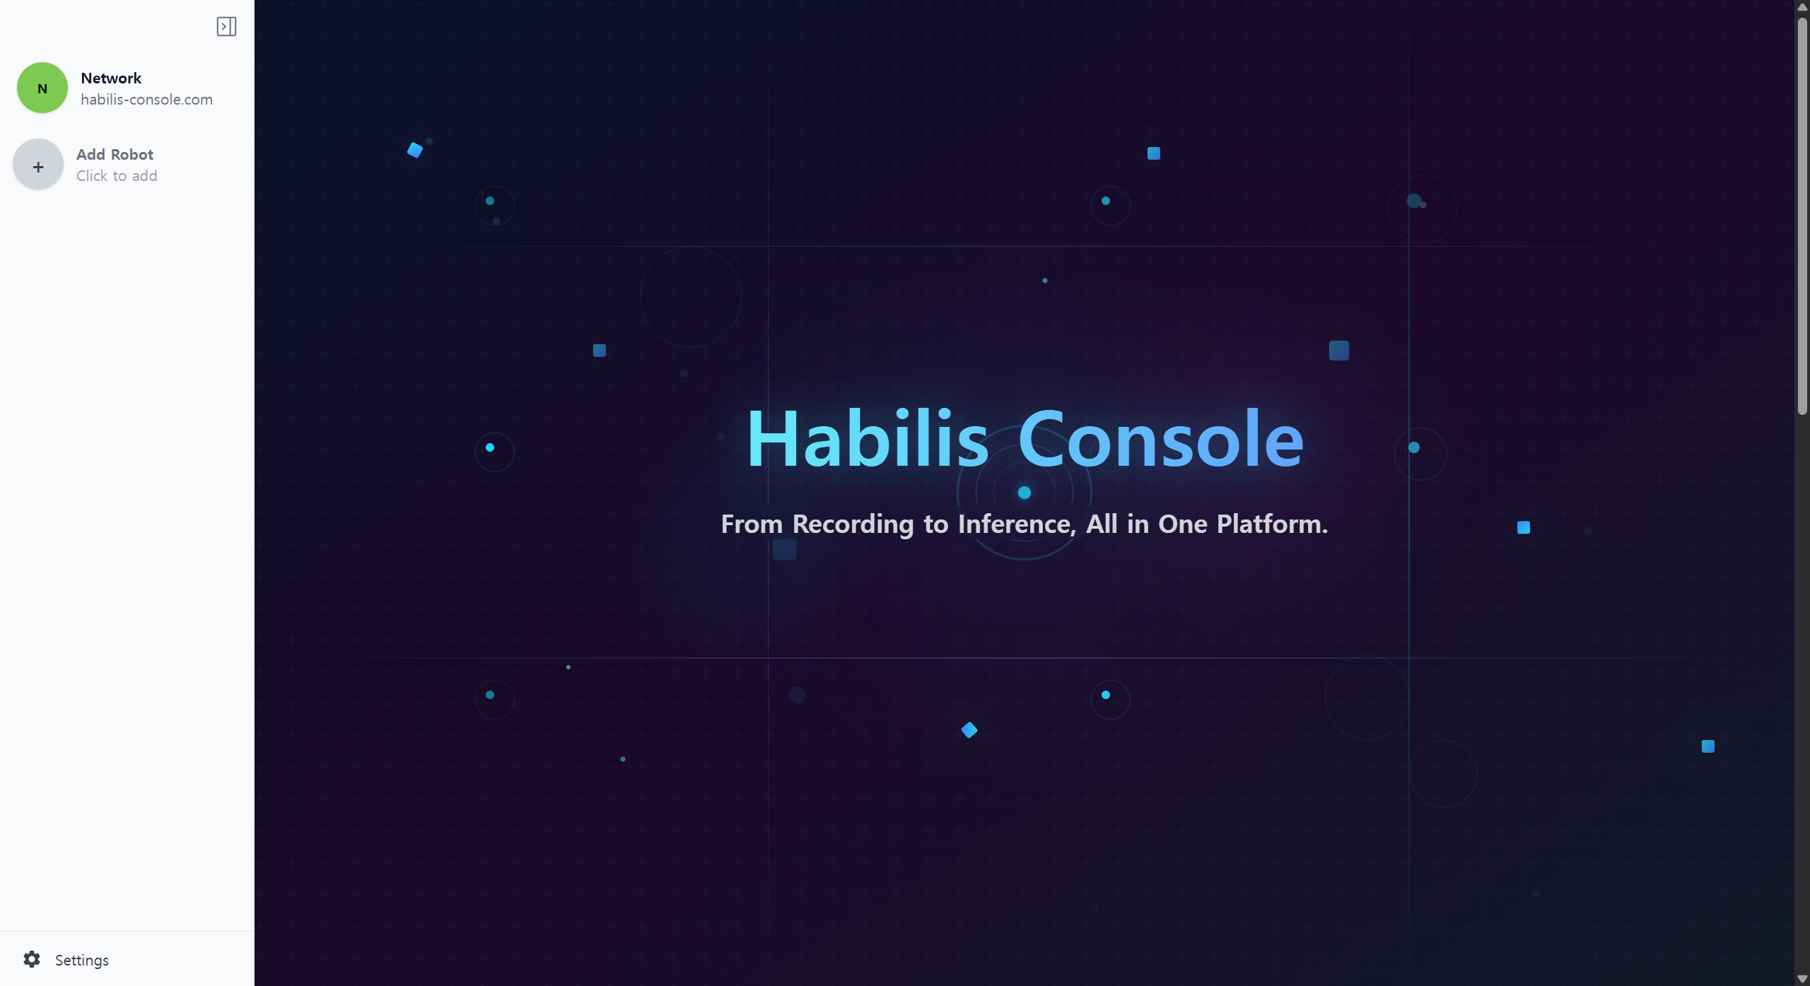
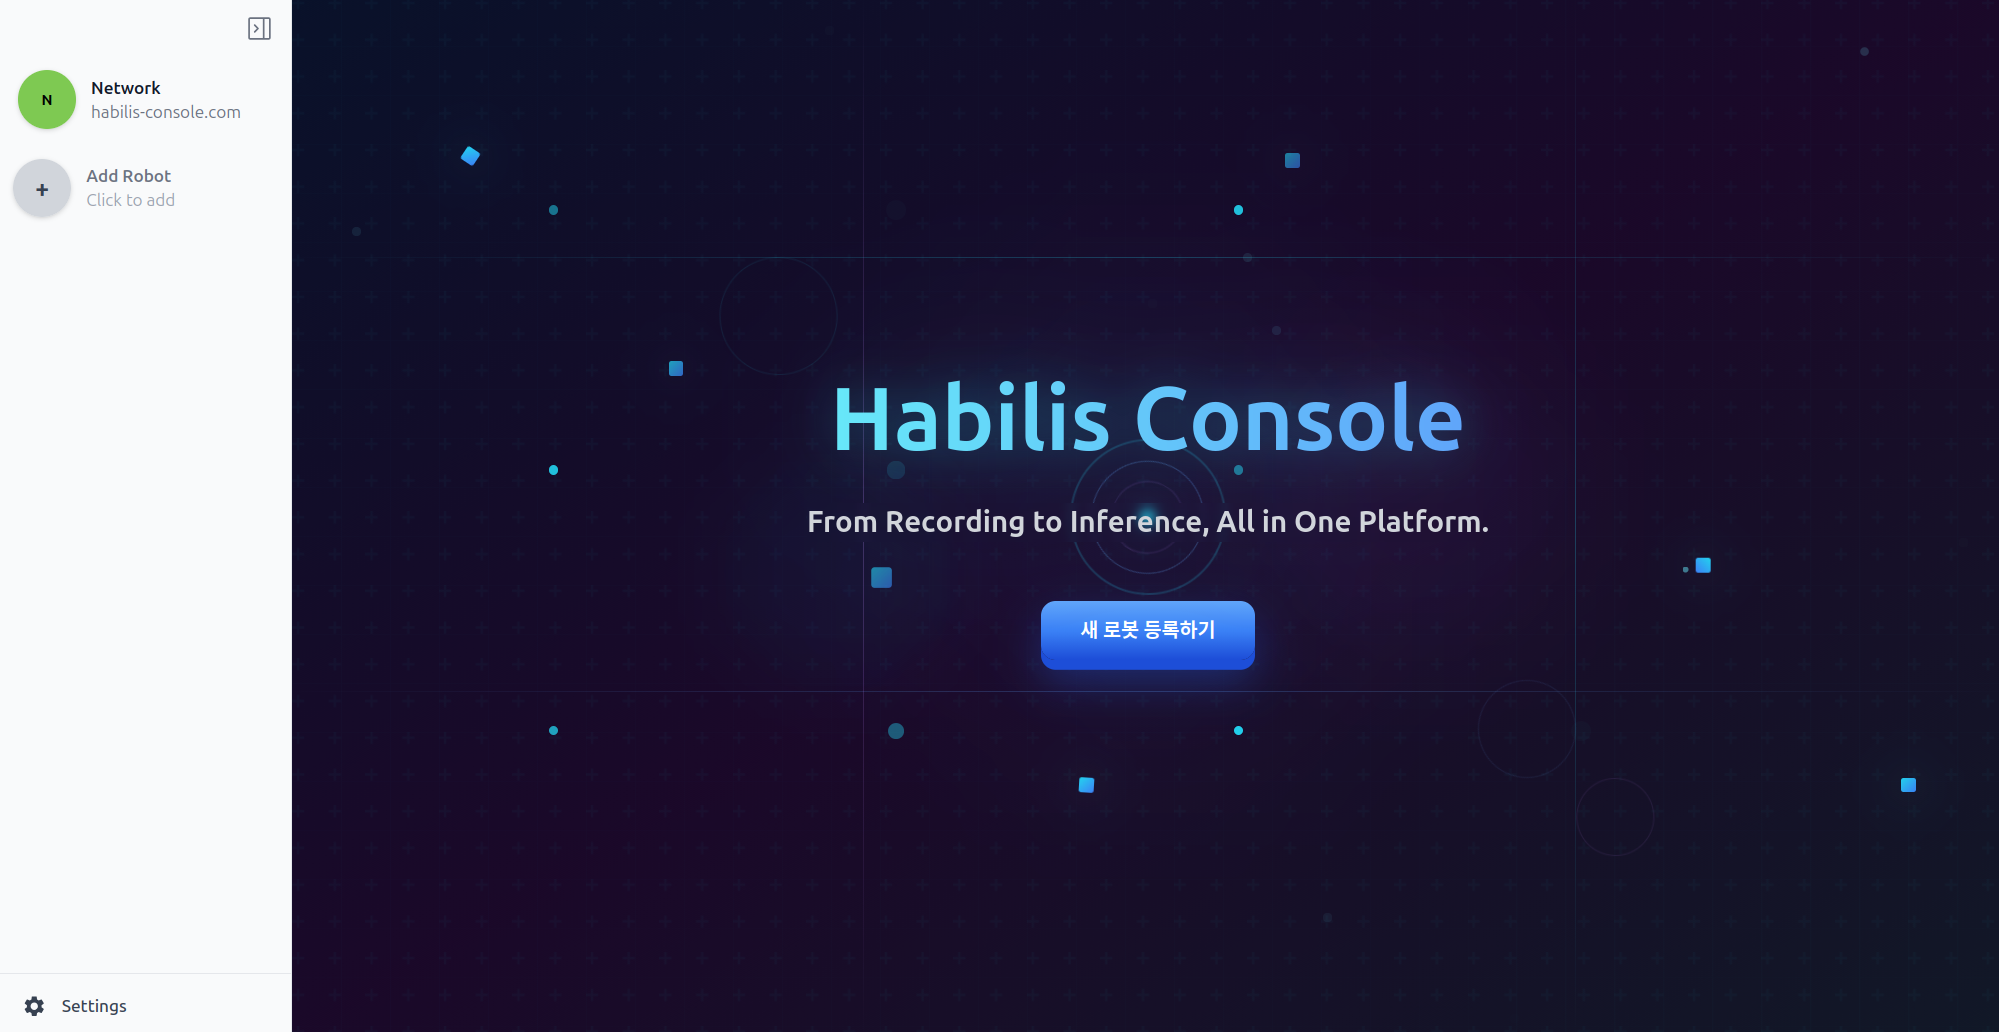
fix new console login screen

diff --git a/docs/console/2.1_new_device.md b/docs/console/2.1_new_device.md
@@ -1,46 +1,19 @@
 # 2.1 신규 디바이스 등록
-## Step 1. 메뉴 접속
+### Step 1. 메뉴 접속
 
-좌측 메뉴 바에서 **[Network]** 또는 **[Add Robot]** 탭을 클릭합니다.
+1. 좌측 메뉴 바에서 **[Network]** 또는 중앙의 **새 로봇 등록하기** 탭을 클릭합니다.
 ![console_config_main_detail](./image/그림7.png)
-    
-## Step 2. 네트워크 정보 입력
-**Config 페이지 > [Network] 탭**에서 아래 항목을 입력한 후 <strong> [Save Changes]</strong>를 클릭합니다.
+:::warning[경고]
+로봇과 호스트 PC는 **동일한 스위치 또는 라우터 하위 네트워크**에 연결되어 있어야 합니다.
+서로 다른 스위치 또는 라우터로 분리된 네트워크 환경에서는 **ROS 통신이 정상적으로 동작하지 않을 수 있습니다.**  
+:::
+<br />
 
-<div class="field-table">
-  <div class="field-row">
-    <div class="field-label">NETWORK NAME</div>
-    <div class="field-desc">네트워크 이름</div>
-    <div class="field-desc">예시: <code>Habilis Network</code></div>
-  </div>
-  <div class="field-row">
-    <div class="field-label">Device Type</div>
-    <div class="field-desc">디바이스 타입 (토글)</div>
-    <div class="field-desc">종류: <code>Robot</code>, <code>Hand</code>, <code>VR</code></div>
-  </div>
-  <div class="field-row">
-    <div class="field-label">ROBOT IP</div>
-    <div class="field-desc">신규 로봇의 IP</div>
-    <div class="field-desc">예시: <code>192.168.0.10</code></div>
-  </div>
-  <div class="field-row">
-    <div class="field-label">HAND IP</div>
-    <div class="field-desc">신규 핸드의 IP</div>
-    <div class="field-desc">예시: <code>192.168.0.10</code></div>
-  </div>
-  <div class="field-row">
-    <div class="field-label">VR IP</div>
-    <div class="field-desc">신규 VR 디바이스의 IP</div>
-    <div class="field-desc">예시: <code>192.168.0.10</code></div>
-  </div>
-</div>
-
-![console_config_main_detail](./image/그림1.png)
+2. 콘솔 네트워크 설정 창이 열립니다. 
 ![console_config_main_detail](./image/그림2.png)
-![console_config_main_detail](./image/그림3.png)
-![console_config_main_detail](./image/그림4.png)
+<br />
 
-
+3. 동일한 ROS DOMAIN 네트워크 상에 설치된 런처 IP를 입력한 후 연결하기를 누릅니다. (Default=127.0.0.1)
 :::info[정보]
 디바이스 IP를 모르는 경우, 로봇(또는 해당 디바이스)에 모니터와 키보드가 연결되어 있다면 직접 확인이 가능합니다.
 
@@ -81,89 +54,61 @@
   </div>
 </div>
 :::
+<br />
 
-:::warning[경고]
-`127.0.0.1`은 외부 접속용 IP가 아닙니다.
-:::
-
-:::warning[경고]
-로봇과 호스트 PC는 **동일한 스위치 또는 라우터 하위 네트워크**에 연결되어 있어야 합니다.
-
-서로 다른 스위치 또는 라우터로 분리된 네트워크 환경에서는 **ROS 통신이 정상적으로 동작하지 않을 수 있습니다.**  
-:::
-
-## Step 3. 핸드 등록
-1. Hand 토글을 눌러 IP 주소 입력 필드를 활성화합니다.
-2. 활성화된 입력 필드에 사용할 핸드의 IP 주소를 입력합니다.
-![Console Main 페이지](./image/그림20.png)
-
-## Step 4. VR 기기 등록
-1. VR 토글을 눌러 IP 주소 입력 필드를 활성화합니다.
-2. 활성화된 입력 필드에 사용할 VR 기기의 IP 주소를 입력합니다.
-![Console Main 페이지](./image/그림22.png)
-
-## Step 5. 인증서 허용    
-통신 보안을 위해 최초 1회 인증서 승인이 필요합니다.
-
-1. IP 주소 필드 우측의 **[Trust ROS Cert]** 버튼을 클릭합니다. 
-![Console Main 페이지](./image/그림24.png)
-
-2. 브라우저 새 창에 보안 경고가 뜨면 '**고급 > 안전하지 않음으로 이동(Proceed)**'을 선택합니다.
+4. 브라우저 새 창에 보안 경고가 뜨면 '**고급 > 안전하지 않음으로 이동(Proceed)**'을 선택합니다.
 ![Console Main 페이지](./image/그림11.png)
 ![Console Main 페이지](./image/그림12.png)
+<br />
 
-3. 인증서 페이지가 정상적으로 열리면 창을 닫고 콘솔로 돌아옵니다.  
+5. 인증서 페이지가 정상적으로 열리면 창을 닫고 콘솔로 돌아옵니다.  
 ![Console Main 페이지](./image/그림13.png)
+<br />
 
-:::info[정보]
-인증은 최초 1회만 수행하면 재사용할 수 있습니다.
-
-그러나 로봇 제어 확장팩을 재실행한 경우에는 <strong> [Trust ROS Cert]</strong> 버튼을 다시 눌러야 합니다.
-:::
-
-## Step 6. 연결 상태 확인   
-Network 탭에 초록색 연결 아이콘이 활성화되었는지 확인합니다.
+6. Network 연결 상태를 확인합니다.
 
 <div class="field-table">
   <div class="field-row">
     <div class="field-label">🟢초록색 표시</div>
     <div class="field-desc">연결 성공. 다음 단계로 진행하세요.</div>
-    <div class="field-img">
-      <img src="./image/그림15.png" width="200"/>
-    </div>
   </div>
 
   <div class="field-row">
     <div class="field-label">🟡노란색 표시</div>
     <div class="field-desc">응답 대기 중. 최소 30초 대기 후 변화가 없다면 로봇을 재부팅하세요.</div>
-    <div class="field-img">
-      <img src="./image/그림17.png" width="200"/>
-    </div>
   </div>
 
   <div class="field-row">
     <div class="field-label">🔴 빨간색 표시</div>
     <div class="field-desc">연결 실패. IP 오타 확인 및 로봇의 전원/네트워크 상태를 점검하세요.</div>
-    <div class="field-img">
-      <img src="./image/그림16.png" width="200"/>
-    </div>
   </div>
 </div>
+<br />
 
 
-## Step 6. 디바이스 전원 구동
+### Step 2. 핸드 등록
+1. Hand 토글을 눌러 IP 주소 입력 필드를 활성화합니다.
+2. 활성화된 입력 필드에 사용할 핸드의 IP 주소를 입력합니다.
+![Console Main 페이지](./image/그림20.png)
+<br />
 
-1. <strong> ROBOT MODEL</strong> 필드에 로봇 모델 이름(예: `rby1a`, `ffw_bg2_rev4`)이 정상적으로 표시되는지 확인합니다.
-![console_config_trustROS_retry](./image/그림18.png)    
+### Step 3. VR 기기 등록
+1. VR 토글을 눌러 IP 주소 입력 필드를 활성화합니다.
+2. 활성화된 입력 필드에 사용할 VR 기기의 IP 주소를 입력합니다.
+![Console Main 페이지](./image/그림22.png)
+<br />
+
+### Step 4. 디바이스 전원 구동
+
+1. <strong> ROBOT MODEL</strong> 필드에 로봇 모델 이름(예: `rby1a`, `ffw_bg2_rev4`)이 정상적으로 표시되는지 확인합니다. 
 2. 우측의 **[ROBOT ON]** 버튼을 클릭하여 시스템 전원을 켭니다.
-![console_config_trustROS_retry](./image/그림19.png)   
 3. 핸드를 사용하는 경우, 우측의 **[HAND ON]** 버튼을 클릭하여 핸드 디바이스의 전원을 켭니다.
-![Console Main 페이지](./image/그림21.png)  
+![console_config_trustROS_retry](./image/그림19.png)   
 4. 버튼을 누른 후 로봇의 서보 모터가 정상적으로 구동되고, 토크가 인가된 상태인지 확인합니다.
+<br />
 
 :::warning[경고] 
 ROBOT MODEL 필드에 <strong> `Robot model을 불러오지 못했습니다.`</strong>라는 문구가 표시된다면 콘솔이 로봇을 찾지 못한 상태입니다. 
-![console_config_trustROS_retry2](./image/그림23.png)
 
 1. 로봇 본체의 전원이 물리적으로 켜져 있는지 확인하세요.
 2. 입력한 **ROBOT IP**가 정확한지 다시 한 번 확인합니다.

diff --git a/docs/launcher/4._settings.md b/docs/launcher/4._settings.md
@@ -11,47 +11,47 @@
 
   <div class="field-row">
     <div class="field-label">Email</div>
-    <div class="field-desc">로그인된 계정의 이메일</div>
+    <div class="field-desc">로그인된 계정의 이메일입니다.</div>
   </div>
 
   <div class="field-row">
     <div class="field-label">Nickname</div>
-    <div class="field-desc">사용자 닉네임</div>
+    <div class="field-desc">사용자 기본 닉네임입니다.</div>
   </div>
 
   <div class="field-row">
     <div class="field-label">Plan</div>
-    <div class="field-desc">현재 구독 플랜</div>
+    <div class="field-desc">현재 구독 플랜을 나타냅니다.</div>
   </div>
 
   <div class="field-row">
     <div class="field-label">Max Instances</div>
-    <div class="field-desc">동시에 실행 가능한 인스턴스 최대 수</div>
+    <div class="field-desc">계정에서 동시에 실행 가능한 인스턴스 최대 수를 보여줍니다.</div>
   </div>
 
   <div class="field-row">
     <div class="field-label">Device</div>
-    <div class="field-desc">현재 장치의 고유 식별자 (UUID)</div>
+    <div class="field-desc">현재 장치의 고유 식별자 (UUID)를 나타냅니다.</div>
   </div>
 
   <div class="field-row">
     <div class="field-label">Theme</div>
-    <div class="field-desc">Light / Dark 모드 전환</div>
+    <div class="field-desc">Light / Dark 모드 전환을 지원합니다.</div>
   </div>
 
   <div class="field-row">
     <div class="field-label">Auto Start</div>
-    <div class="field-desc">활성화 시 시스템 부팅 또는 사용자 로그인 시 자동 실행</div>
+    <div class="field-desc">활성화 시 시스템 부팅 또는 사용자 로그인 시 자동 실행을 설정합니다.</div>
   </div>
 
   <div class="field-row">
     <div class="field-label">Bridge</div>
-    <div class="field-desc">통신 모듈 실행 상태 표시</div>
+    <div class="field-desc">통신 모듈 실행 상태 표시합니다.</div>
   </div>
 
   <div class="field-row">
     <div class="field-label">OCI Records</div>
-    <div class="field-desc">계정에 연결된 패키지 및 실행 기록 관리</div>
+    <div class="field-desc">계정에 연결된 패키지 및 실행 내역을 관리합니다.</div>
   </div>
 
 </div>

diff --git a/docs/console/1_login.md b/docs/console/1_login.md
@@ -1,23 +1,24 @@
 # 1. 로그인
 
-## Step 1. 웹사이트 접속
+### Step 1. 웹사이트 접속
 1. 웹 브라우저 주소창에 [https://habilis-console.com](https://habilis-console.com/)을 입력하여 접속합니다.
 
 2. 아래와 같은 로그인 화면이 나타나는지 확인합니다.
 ![Console Login 페이지](./image/1.1_login_page.png)
+<br />
 
-
-## Step 2. 로그인 정보 입력
+### Step 2. 로그인 정보 입력
 1. 하빌리스 런처에서 사용하는 것과 **동일한 계정 정보**를 입력합니다.
 ![Console Login](./image/1.1_login.png)
 
 :::info[정보]
-비밀번호가 기억나지 않는다면 화면 하단의 <strong> [재설정 링크 보내기]</strong>를 클릭하세요. 가입된 이메일로 임시 비밀번호가 발송됩니다. 
-![Console Main 페이지](./image/1.1_password_reconfiguration.gif)
+비밀번호가 기억나지 않는다면 화면 하단의 <strong> [재설정 링크 보내기]</strong>를 클릭하세요. <br>
+가입된 이메일로 임시 비밀번호가 발송됩니다. 
 :::
+<br />
 
 
-## Step 3. 로그인 완료
+### Step 3. 로그인 완료
 4. 로그인이 성공하면 아래와 같은 메인 대시보드 화면으로 이동합니다. 
 이제 콘솔의 모든 기능을 사용할 수 있습니다.
 ![Console Main 페이지](./image/그림8.png)

diff --git a/docs/faq.md b/docs/faq.md
@@ -1,6 +1,6 @@
 # FAQ
 
-#### 1. 인스턴스 수가 한도에 도달했어요. 초기화가 필요해요!
+### 1. 인스턴스 수가 한도에 도달했어요. 초기화가 필요해요!
 하빌리스 런처의 Settings 탭 하단 > OCI Records 클릭 > 원하는 설치 디바이스 삭제
 
 <div style="display:flex;flex-wrap:nowrap;gap:10px;">
@@ -9,3 +9,15 @@
   <img src="/image/instance_reset2.png" width="50%" />
 
 </div>
+<br />
+
+### 2. (os error 2) No such file or directory 에러가 떠요!
+해당 오류는 필수 실행 파일을 찾을 수 없을 때 발생합니다.  
+하빌리스 콘솔은 **Docker**와 **Docker Compose** 설치를 필수로 요구합니다.
+
+**확인 방법**
+터미널에서 아래 명령어를 실행하여 설치 여부를 확인하세요.
+
+```bash
+docker --version
+docker compose version
